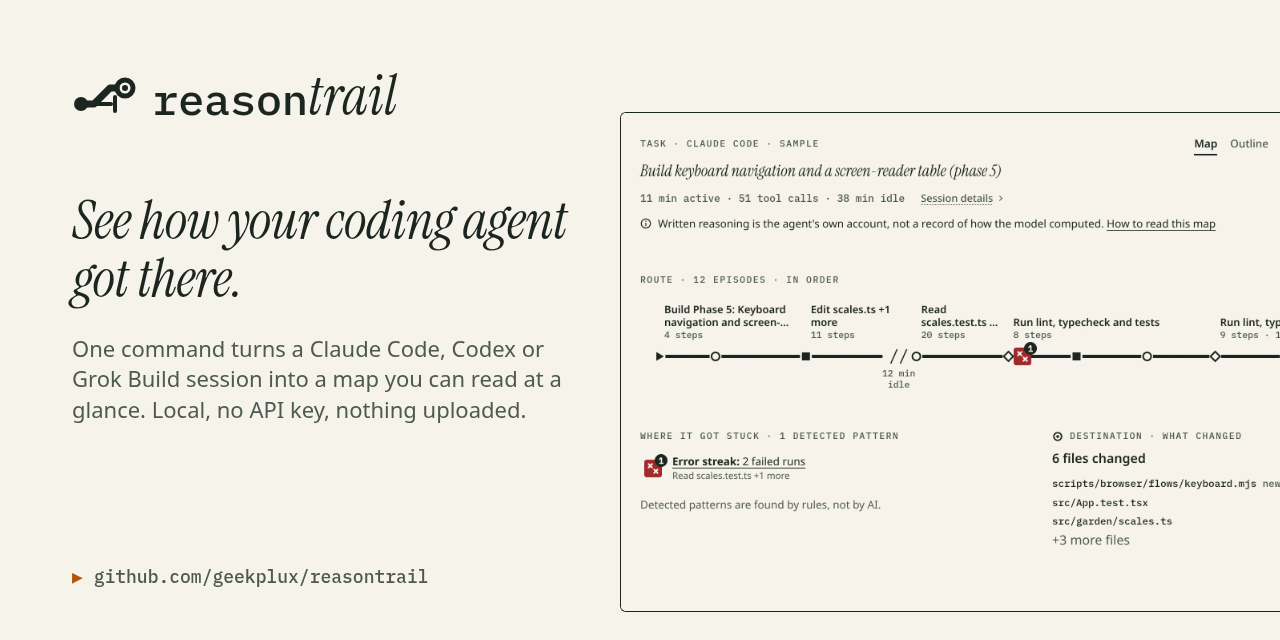
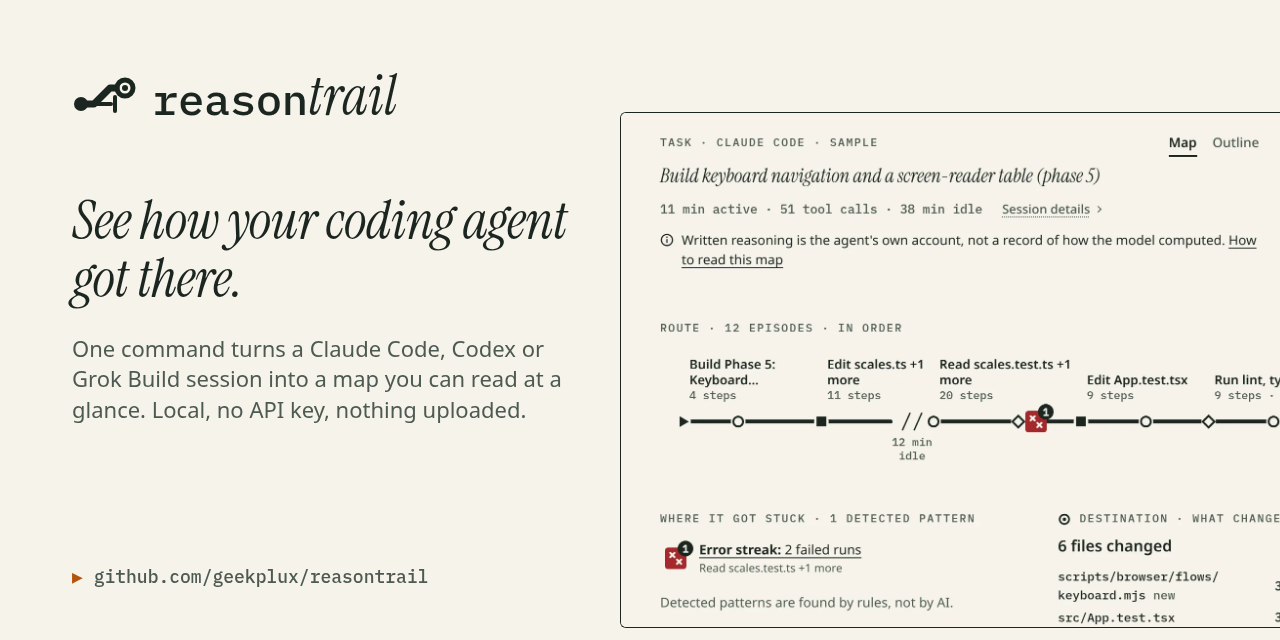
fix: social preview fits the new hero still

diff --git a/docs/brand/social-preview.html b/docs/brand/social-preview.html
@@ -20,8 +20,8 @@
   p { margin-top: 24px; color: #4d5a52; }
   .foot { position: absolute; left: 72px; bottom: 52px; font: 500 18px 'Plex Mono', ui-monospace, monospace; color: #4d5a52; }
   .foot b { color: #b4530a; font-weight: 500; }
-  figure { align-self: start; margin-top: 48px; overflow: hidden; border: 1px solid #1c2620; border-right: 0; border-radius: 6px 0 0 6px; background: #fffdf7; }
-  figure img { display: block; width: 1000px; height: auto; }
+  figure { align-self: start; height: 516px; margin-top: 48px; overflow: hidden; border: 1px solid #1c2620; border-right: 0; border-radius: 6px 0 0 6px; background: #fffdf7; }
+  figure img { display: block; width: 1000px; height: 100%; object-fit: cover; object-position: top left; }
 </style>
 </head>
 <body>
